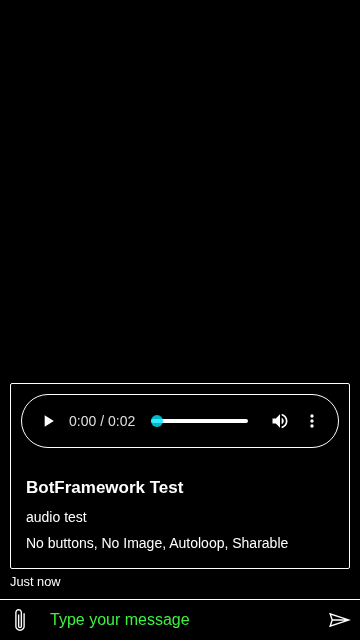
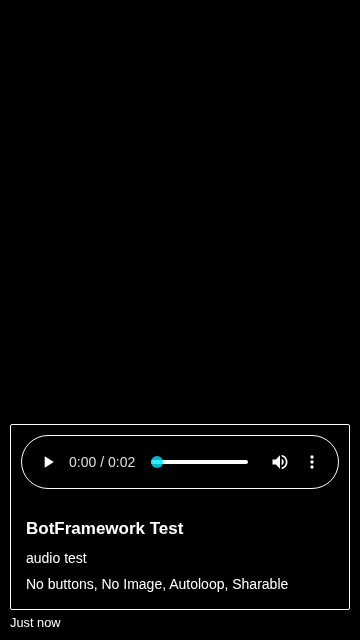
Hide the send box in the forced colors media tests

diff --git a/__tests__/html2/attachment/audio.forcedColors.dark.html b/__tests__/html2/attachment/audio.forcedColors.dark.html
@@ -39,7 +39,9 @@
 
         const { directLine, store } = testHelpers.createDirectLineEmulator();
 
-        createRoot(document.getElementById('webchat')).render(createElement(ReactWebChat, { directLine, store }));
+        createRoot(document.getElementById('webchat')).render(
+          createElement(ReactWebChat, { directLine, store, styleOptions: { hideSendBox: true } })
+        );
 
         await pageConditions.uiConnected();
 

diff --git a/__tests__/html2/attachment/video.forcedColors.dark.html b/__tests__/html2/attachment/video.forcedColors.dark.html
@@ -39,7 +39,9 @@
 
         const { directLine, store } = testHelpers.createDirectLineEmulator();
 
-        createRoot(document.getElementById('webchat')).render(createElement(ReactWebChat, { directLine, store }));
+        createRoot(document.getElementById('webchat')).render(
+          createElement(ReactWebChat, { directLine, store, styleOptions: { hideSendBox: true } })
+        );
 
         await pageConditions.uiConnected();
 
